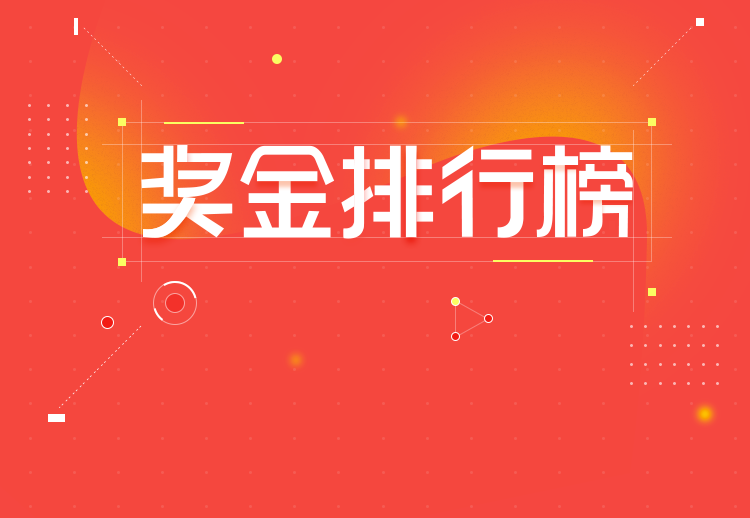
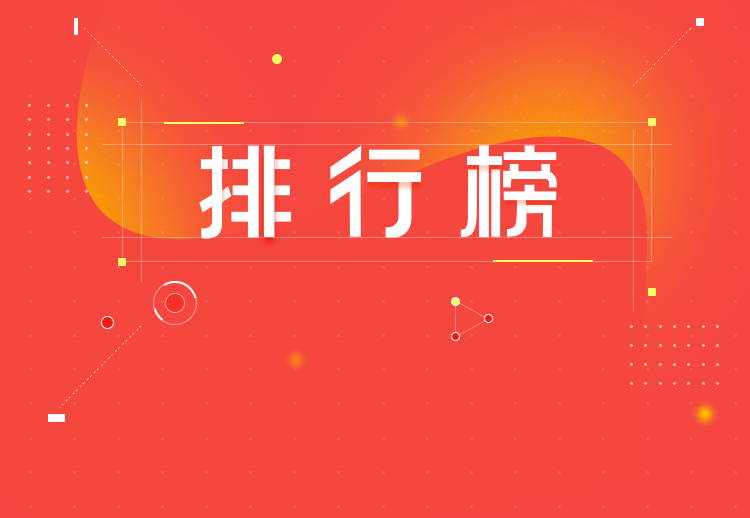
0930

Changed region(s): [[0.184, 0.278, 0.8587, 0.4633]]

diff --git a/pages/money/money.js b/pages/money/money.js
@@ -7,26 +7,43 @@ Page({
    */
   data: {
     moneyList:[],
-    navH: "132rpx"
+    navH: "132rpx",
+    isMoney:""
   },
 
   /**
    * 生命周期函数--监听页面加载
    */
-  onLoad: function (options) {
+  onLoad: function (e) {
     this.setData({
       navH: app.globalData.navHeight
     })      
-    var that=this;
-    wx.getStorage({
-      key: 'moneyList',
-      success: function(res) {
-        that.setData({
-          moneyList:res.data
-        })
-        
-      },
-    })
+    var that=this;   
+    if(e.id==1){
+      that.setData({
+        isMoney:true
+      })
+      wx.getStorage({
+        key: 'moneyList',
+        success: function (res) {
+          that.setData({
+            moneyList: res.data
+          })
+        },
+      })       
+    } else if(e.id == 2){
+      that.setData({
+        isMoney: false
+      })
+      wx.getStorage({
+        key: 'funsList',
+        success: function (res) {
+          that.setData({
+            moneyList: res.data
+          })
+        },
+      })       
+    }
   },
 
   /**
@@ -75,7 +92,16 @@ Page({
    * 用户点击右上角分享
    */
   onShareAppMessage: function () {
-
+    return {
+      path: '/pages/index/index'
+    }   
   },
-
+  goUfriends(r) {
+    var that = this;
+    var aId = r.currentTarget.dataset.activeid;
+    var uId = r.currentTarget.dataset.userid;
+    wx.navigateTo({
+      url: '../uFriends/friends?activeId=' + aId + "&userId=" + uId,
+    })
+  }
 })

diff --git a/pages/active/active.js b/pages/active/active.js
@@ -62,7 +62,8 @@ Page({
     bmPhone: "",
     bmNum:"",
     channel:2,
-    navH: "132rpx"
+    navH: "132rpx",
+    hasFun:false
   },
 
   /**
@@ -117,7 +118,6 @@ Page({
   onReady: function () {
     
   },
-
   /**
    * 生命周期函数--监听页面显示
    */
@@ -909,6 +909,7 @@ Page({
           wx.setStorageSync("activeData", res.data.data);
           wx.setStorageSync("clickList", res.data.data.RotateHelpUserClickList);
           wx.setStorageSync("moneyList", res.data.data.RotateStartUserAmountList);
+          wx.setStorageSync("funsList", res.data.data.RotateStartUserAmountFansList);
           if (res.data.data.UserMaxAmountBl){
             that.setData({
               isOld:true
@@ -1039,6 +1040,26 @@ Page({
       animationBm: animation.export()
     })
   },
+  showFun(e) {
+    this.data.hasFun = !this.data.hasFun;
+    var that = this;
+    // 显示遮罩层 
+    var animation = wx.createAnimation({
+      duration: 500,
+      timingFunction: "ease-out",
+      delay: 0
+    })
+    animation.opacity(0).step();
+    this.setData({
+      animationBm: animation.export(),
+      hasFun: that.data.hasFun
+    })
+    animation.opacity(1).step();
+    this.setData({
+      animationBm: animation.export()
+    })
+  },
+
   setMsg(e) {
     var that = this;
     var type = e.currentTarget.dataset.t;

diff --git a/pages/uFriends/friends.js b/pages/uFriends/friends.js
@@ -35,7 +35,7 @@ Page({
       })
     } 
     wx.showLoading({
-      title: '',
+      title: '加载中',
     })
     setTimeout(function () {
       that.getData();
@@ -106,7 +106,9 @@ Page({
    * 用户点击右上角分享
    */
   onShareAppMessage: function () {
-
+    return {
+      path: '/pages/index/index'
+    } 
   },
   getData(num){
     var that=this;

diff --git a/pages/index/index.js b/pages/index/index.js
@@ -22,7 +22,6 @@ Page({
     wx.showLoading({
       title: '加载中'
     })       
-
     var p1 = this.getBanner();
     var p2 = this.getData();
     var that = this;
@@ -43,6 +42,7 @@ Page({
       })     
   },
   onShow(){
+
     // 底部tabbar
     if (typeof this.getTabBar === 'function' &&
       this.getTabBar()) {

diff --git a/pages/myself/myself.js b/pages/myself/myself.js
@@ -97,7 +97,9 @@ Page({
    * 用户点击右上角分享
    */
   onShareAppMessage: function (res) {
-
+    return {
+      path: '/pages/index/index'
+    } 
   }, 
   exit:function(){
     wx.clearStorage();

diff --git a/pages/myYy/myYy.js b/pages/myYy/myYy.js
@@ -105,7 +105,9 @@ Page({
    * 用户点击右上角分享
    */
   onShareAppMessage: function () {
-
+    return {
+      path: '/pages/index/index'
+    } 
   },
   getData(num) {
     var that = this;

diff --git a/pages/mclick/mclick.js b/pages/mclick/mclick.js
@@ -105,7 +105,9 @@ Page({
    * 用户点击右上角分享
    */
   onShareAppMessage: function () {
-
+    return {
+      path: '/pages/index/index'
+    }  
   },
   getData(num){
     var that=this;

diff --git a/pages/myEwm/myEwm.js b/pages/myEwm/myEwm.js
@@ -76,7 +76,9 @@ Page({
    * 用户点击右上角分享
    */
   onShareAppMessage: function () {
-
+    return {
+      path: '/pages/index/index'
+    } 
   },
   selectPic(e) {
     var that = this;

diff --git a/pages/applyJjr/applyJjr.js b/pages/applyJjr/applyJjr.js
@@ -94,7 +94,9 @@ Page({
    * 用户点击右上角分享
    */
   onShareAppMessage: function () {
-
+    return {
+      path: '/pages/index/index'
+    } 
   },
   confim(e) {
     var that = this;

diff --git a/pages/role/role.js b/pages/role/role.js
@@ -67,7 +67,9 @@ Page({
    * 用户点击右上角分享
    */
   onShareAppMessage: function () {
-
+    return {
+      path: '/pages/index/index'
+    } 
   },
   getData(){
     var that=this;

diff --git a/pages/activeBm/activeBm.js b/pages/activeBm/activeBm.js
@@ -64,6 +64,8 @@ Page({
    * 用户点击右上角分享
    */
   onShareAppMessage: function () {
-
+    return {
+      path: '/pages/index/index'
+    } 
   }
 })

diff --git a/pages/friends/friends.js b/pages/friends/friends.js
@@ -74,6 +74,8 @@ Page({
    * 用户点击右上角分享
    */
   onShareAppMessage: function () {
-
+    return {
+      path: '/pages/index/index'
+    } 
   }
 })
